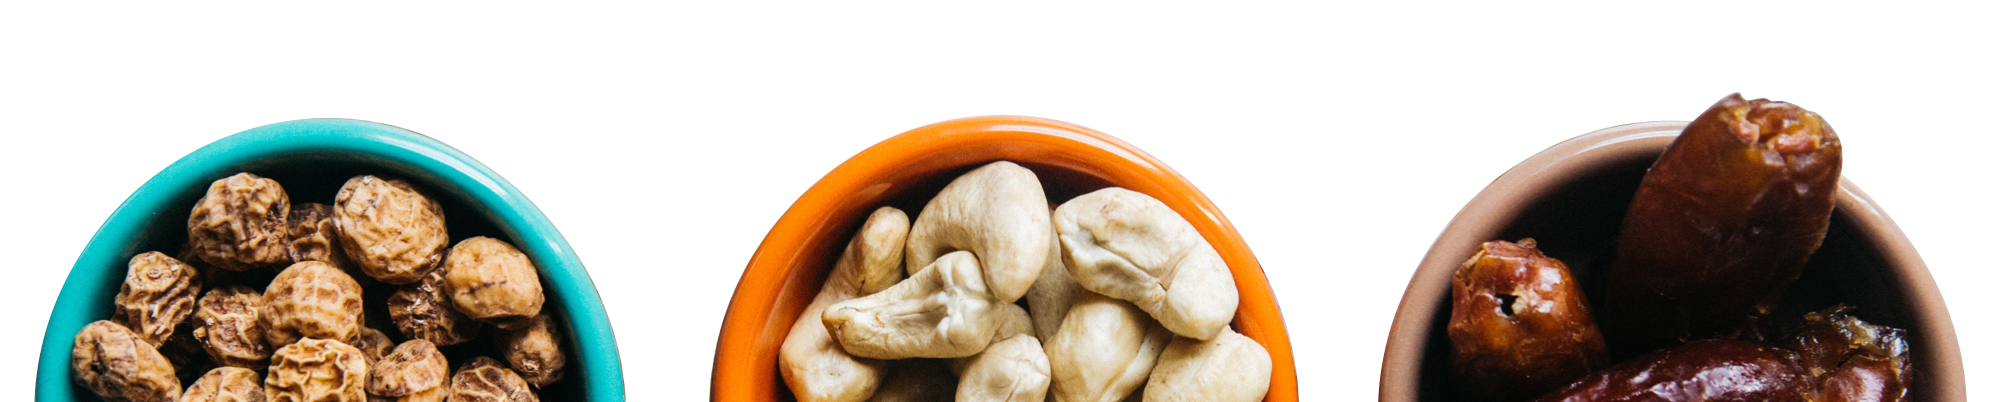
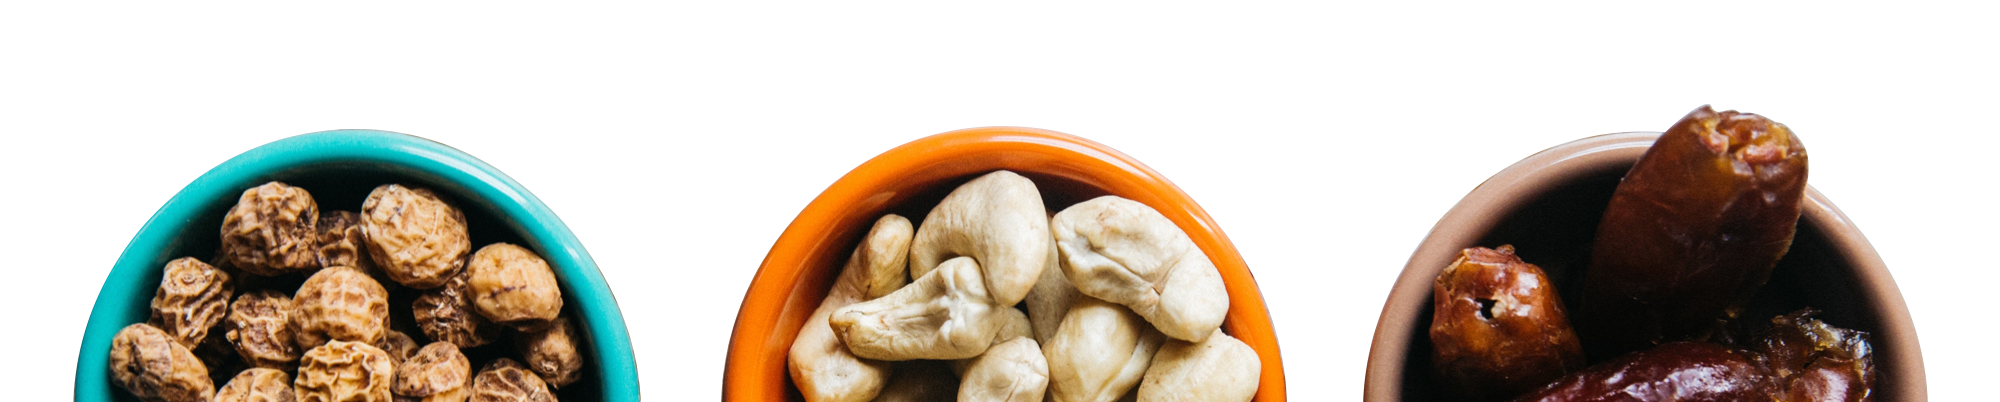
Hero with brands

diff --git a/_layouts/home.html b/_layouts/home.html
@@ -20,13 +20,10 @@ layout: default
                         <!-- Features Item -->
                         <div class="features-item">
                             <div class="features-icon">
-                                <span class=" icon-hotairballoon"></span>
-                            </div>
-                            <div class="features-title font-alt">
-                                We're Creative
+                                <img src="{{ site.baseurl }}images/portfolio/logo_sustainable_indulgence.png" alt="" />
                             </div>
                             <div class="features-descr">
-                                We find the best ideas for you
+                                Peace, Love and Handmade treats
                             </div>
                         </div>
                         <!-- End Features Item -->
@@ -34,13 +31,10 @@ layout: default
                         <!-- Features Item -->
                         <div class="features-item">
                             <div class="features-icon">
-                                <span class="icon-clock"></span>
-                            </div>
-                            <div class="features-title font-alt">
-                                We’re Punctual
+                                <img src="{{ site.baseurl }}images/portfolio/logo_emmys.png" alt="" />
                             </div>
                             <div class="features-descr">
-                                We always do your tasks on time
+                              Clean food for a lively life
                             </div>
                         </div>
                         <!-- End Features Item -->
@@ -48,13 +42,10 @@ layout: default
                         <!-- Features Item -->
                         <div class="features-item">
                             <div class="features-icon">
-                                <span class="icon-lightbulb"></span>
-                            </div>
-                            <div class="features-title font-alt">
-                                We have magic
+                                <img src="{{ site.baseurl }}images/portfolio/logo_explore_cuisine.png" alt="" />
                             </div>
                             <div class="features-descr">
-                                You will be delighted
+                                Pasta re-invented! Simply healthier. Naturally delicious.
                             </div>
                         </div>
                         <!-- End Features Item -->
@@ -62,13 +53,10 @@ layout: default
                         <!-- Features Item -->
                         <div class="features-item">
                             <div class="features-icon">
-                                <span class="icon-wine"></span>
-                            </div>
-                            <div class="features-title font-alt">
-                                We're Creative
+                                <img src="{{ site.baseurl }}images/portfolio/logo_foods_alive.png" alt="" />
                             </div>
                             <div class="features-descr">
-                                We find the best ideas for you
+                                Creators of real health food
                             </div>
                         </div>
                         <!-- End Features Item -->
@@ -76,69 +64,10 @@ layout: default
                         <!-- Features Item -->
                         <div class="features-item">
                             <div class="features-icon">
-                                <span class="icon-tools"></span>
-                            </div>
-                            <div class="features-title font-alt">
-                                We’re Punctual
+                                <img src="{{ site.baseurl }}images/portfolio/logo_vegan_robs.png" alt="Vegan Rob's" />
                             </div>
                             <div class="features-descr">
-                                We always do your tasks on time
-                            </div>
-                        </div>
-                        <!-- End Features Item -->
-
-                        <!-- Features Item -->
-                        <div class="features-item">
-                            <div class="features-icon">
-                                <span class="icon-gears"></span>
-                            </div>
-                            <div class="features-title font-alt">
-                                We have magic
-                            </div>
-                            <div class="features-descr">
-                                You will be delighted
-                            </div>
-                        </div>
-                        <!-- End Features Item -->
-
-                        <!-- Features Item -->
-                        <div class="features-item">
-                            <div class="features-icon">
-                                <span class="icon-browser"></span>
-                            </div>
-                            <div class="features-title font-alt">
-                                We're Creative
-                            </div>
-                            <div class="features-descr">
-                                We find the best ideas for you
-                            </div>
-                        </div>
-                        <!-- End Features Item -->
-
-                        <!-- Features Item -->
-                        <div class="features-item">
-                            <div class="features-icon">
-                                <span class="icon-wallet"></span>
-                            </div>
-                            <div class="features-title font-alt">
-                                We’re Punctual
-                            </div>
-                            <div class="features-descr">
-                                We always do your tasks on time
-                            </div>
-                        </div>
-                        <!-- End Features Item -->
-
-                        <!-- Features Item -->
-                        <div class="features-item">
-                            <div class="features-icon">
-                                <span class="icon-document"></span>
-                            </div>
-                            <div class="features-title font-alt">
-                                We have magic
-                            </div>
-                            <div class="features-descr">
-                                You will be delighted
+                                Go Vegan, even for a momento
                             </div>
                         </div>
                         <!-- End Features Item -->

diff --git a/_layouts/default.html b/_layouts/default.html
@@ -7,32 +7,32 @@
       {{ content }}
 
       <!-- JS -->
-      <script type="text/javascript" src="js/jquery-1.11.2.min.js"></script>
-      <script type="text/javascript" src="js/jquery.easing.1.3.js"></script>
-      <script type="text/javascript" src="js/bootstrap.min.js"></script>
-      <script type="text/javascript" src="js/SmoothScroll.js"></script>
-      <script type="text/javascript" src="js/jquery.scrollTo.min.js"></script>
-      <script type="text/javascript" src="js/jquery.localScroll.min.js"></script>
-      <script type="text/javascript" src="js/jquery.viewport.mini.js"></script>
-      <script type="text/javascript" src="js/jquery.countTo.js"></script>
-      <script type="text/javascript" src="js/jquery.appear.js"></script>
-      <script type="text/javascript" src="js/jquery.sticky.js"></script>
-      <script type="text/javascript" src="js/jquery.parallax-1.1.3.js"></script>
-      <script type="text/javascript" src="js/jquery.fitvids.js"></script>
-      <script type="text/javascript" src="js/owl.carousel.min.js"></script>
-      <script type="text/javascript" src="js/isotope.pkgd.min.js"></script>
-      <script type="text/javascript" src="js/imagesloaded.pkgd.min.js"></script>
-      <script type="text/javascript" src="js/jquery.magnific-popup.min.js"></script>
+      <script type="text/javascript" src="{{ site.baseurl }}js/jquery-1.11.2.min.js"></script>
+      <script type="text/javascript" src="{{ site.baseurl }}js/jquery.easing.1.3.js"></script>
+      <script type="text/javascript" src="{{ site.baseurl }}js/bootstrap.min.js"></script>
+      <script type="text/javascript" src="{{ site.baseurl }}js/SmoothScroll.js"></script>
+      <script type="text/javascript" src="{{ site.baseurl }}js/jquery.scrollTo.min.js"></script>
+      <script type="text/javascript" src="{{ site.baseurl }}js/jquery.localScroll.min.js"></script>
+      <script type="text/javascript" src="{{ site.baseurl }}js/jquery.viewport.mini.js"></script>
+      <script type="text/javascript" src="{{ site.baseurl }}js/jquery.countTo.js"></script>
+      <script type="text/javascript" src="{{ site.baseurl }}js/jquery.appear.js"></script>
+      <script type="text/javascript" src="{{ site.baseurl }}js/jquery.sticky.js"></script>
+      <script type="text/javascript" src="{{ site.baseurl }}js/jquery.parallax-1.1.3.js"></script>
+      <script type="text/javascript" src="{{ site.baseurl }}js/jquery.fitvids.js"></script>
+      <script type="text/javascript" src="{{ site.baseurl }}js/owl.carousel.min.js"></script>
+      <script type="text/javascript" src="{{ site.baseurl }}js/isotope.pkgd.min.js"></script>
+      <script type="text/javascript" src="{{ site.baseurl }}js/imagesloaded.pkgd.min.js"></script>
+      <script type="text/javascript" src="{{ site.baseurl }}js/jquery.magnific-popup.min.js"></script>
       <!-- Replace test API Key "AIzaSyAZsDkJFLS0b59q7cmW0EprwfcfUA8d9dg" with your own one below
       **** You can get API Key here - https://developers.google.com/maps/documentation/javascript/get-api-key -->
       <script type="text/javascript" src="https://maps.googleapis.com/maps/api/js?key=AIzaSyAZsDkJFLS0b59q7cmW0EprwfcfUA8d9dg"></script>
-      <script type="text/javascript" src="js/gmap3.min.js"></script>
-      <script type="text/javascript" src="js/wow.min.js"></script>
-      <script type="text/javascript" src="js/masonry.pkgd.min.js"></script>
-      <script type="text/javascript" src="js/jquery.simple-text-rotator.min.js"></script>
-      <script type="text/javascript" src="js/all.js"></script>
-      <script type="text/javascript" src="js/contact-form.js"></script>
-      <script type="text/javascript" src="js/jquery.ajaxchimp.min.js"></script>
+      <script type="text/javascript" src="{{ site.baseurl }}js/gmap3.min.js"></script>
+      <script type="text/javascript" src="{{ site.baseurl }}js/wow.min.js"></script>
+      <script type="text/javascript" src="{{ site.baseurl }}js/masonry.pkgd.min.js"></script>
+      <script type="text/javascript" src="{{ site.baseurl }}js/jquery.simple-text-rotator.min.js"></script>
+      <script type="text/javascript" src="{{ site.baseurl }}js/all.js"></script>
+      <script type="text/javascript" src="{{ site.baseurl }}js/contact-form.js"></script>
+      <script type="text/javascript" src="{{ site.baseurl }}js/jquery.ajaxchimp.min.js"></script>
       <!--[if lt IE 10]><script type="text/javascript" src="js/placeholder.js"></script><![endif]-->
 
   </body>

diff --git a/css/style.scss b/css/style.scss
@@ -1,13 +1,7 @@
-@charset "utf-8";
-/*------------------------------------------------------------------
-[Master Stylesheet]
+---
+---
 
-Project:    Rhythm
-Version:    2.9.7
-Last change:    22.11.2017
-Primary use:    MultiPurpose Template
--------------------------------------------------------------------*/
-
+@import "variables";
 @import "font-awesome.min.css";
 @import "et-line.css";
 @import url(https://fonts.googleapis.com/css?family=Open+Sans:400italic,700italic,400,300,700);
@@ -360,7 +354,7 @@ img:not([draggable]), embed, object, video{
 body{
     color: #111;
     font-size: 14px;
-    font-family: 'Fira Sans', sans-serif;
+    font-family: $fira;
     line-height: 1.6;
     -webkit-font-smoothing: antialiased;
 }
@@ -2581,7 +2575,7 @@ a.logo:hover{
     position: absolute;
     top: 0;
     left: 0;
-    background: rgba(252,252,252, .7);
+    background: rgba(252,252,252, .1);
 }
 .bg-light-alfa-90:before,
 .bg-light-alfa-90 .YTPOverlay:before{
@@ -3055,9 +3049,9 @@ a.logo:hover{
     background-size: cover;
 }
 .features-icon{
-    font-size: 48px;
-    line-height: 1.3;
-    color: rgba(255,255,255, .9);
+    height: 12rem;
+    max-width: 60%;
+    margin: 0 auto;
 }
 .features-title{
     margin-bottom: 3px;
@@ -6430,4 +6424,12 @@ section:hover .small-item-carousel .owl-next{
 
 .hero {
   background: rgba(252,252,252, .7) url(../images/bg-hero.png) no-repeat center center;
+  background-size: 100%;
+  background-position-y: bottom;
+}
+
+// about
+
+#about {
+  background: $yellow;
 }

diff --git a/_includes/header.html b/_includes/header.html
@@ -4,7 +4,7 @@
         <!-- Logo ( * your text or image into link tag *) -->
         <div class="nav-logo-wrap local-scroll">
             <a href="#top" class="logo">
-                <img src="images/logo-dark.png" alt="" />
+                <img src="{{ site.baseurl }}images/logo-dark.png" alt="" />
             </a>
         </div>
         <div class="mobile-nav">
@@ -14,11 +14,11 @@
         <div class="inner-nav desktop-nav">
             <ul class="clearlist scroll-nav local-scroll">
                 <li class="active"><a href="#home">Home</a></li>
-                <li><a href="#about">About</a></li>
-                <li><a href="#services">Services</a></li>
-                <li><a href="#portfolio">Portfolio</a></li>
-                <li><a href="#news">News</a></li>
-                <li><a href="#contact">Contacts</a></li>
+                <li><a href="{{ site.baseurl }}#about">About</a></li>
+                <li><a href="{{ site.baseurl }}#services">Services</a></li>
+                <li><a href="{{ site.baseurl }}#portfolio">Portfolio</a></li>
+                <li><a href="{{ site.baseurl }}#news">News</a></li>
+                <li><a href="{{ site.baseurl }}#contact">Contacts</a></li>
                 {% assign pages=site.pages | where:"ref", page.ref | sort: 'lang' %}
                 {% for page in pages %}
                 <li>

diff --git a/_includes/head.html b/_includes/head.html
@@ -1,5 +1,5 @@
 <head>
-    <title>Rhythm &mdash; One & Multi Page Creative Theme</title>
+    <title>{{ site.title }}</title>
     <meta name="description" content="">
     <meta name="keywords" content="">
     <meta charset="utf-8">
@@ -9,14 +9,14 @@
     <!-- Favicons -->
     <link rel="shortcut icon" href="images/favicon.png">
 
-    <!-- CSS -->{{ site.baseurl }}
+    <!-- CSS -->
     <link rel="stylesheet" href="{{ site.baseurl }}css/bootstrap.min.css">
     <link rel="stylesheet" href="{{ site.baseurl }}css/style.css">
     <link rel="stylesheet" href="{{ site.baseurl }}css/style-responsive.css">
     <link rel="stylesheet" href="{{ site.baseurl }}css/animate.min.css">
     <link rel="stylesheet" href="{{ site.baseurl }}css/vertical-rhythm.min.css">
     <link rel="stylesheet" href="{{ site.baseurl }}css/owl.carousel.css">
-    <link rel="stylesheet" href="css/magnific-popup.css">
+    <link rel="stylesheet" href="{{ site.baseurl }}css/magnific-popup.css">
 
     <!-- Fonts -->
     <link href="https://fonts.googleapis.com/css?family=Fira+Sans:400,700" rel="stylesheet">

diff --git a/_includes/portfolio.html b/_includes/portfolio.html
@@ -1,16 +1,20 @@
             <!-- Head Section -->
-            <section class="small-section bg-dark-alfa-30 parallax-2" data-background="images/full-width-images/section-bg-18.jpg">
+            <section class="small-section bg-dark-alfa-30 parallax-2" data-background="{{ site.baseurl }}images/full-width-images/section-bg-18.jpg">
                 <div class="relative container align-left">
 
                     <div class="row">
 
                         <div class="col-md-8">
                             <h1 class="hs-line-11 font-alt mb-20 mb-xs-0">Nuestras marcas</h1>
-                            <div class="hs-line-4 font-alt">
-                                An eye for detail makes our works excellent
-                            </div>
                         </div>
+
                     </div>
+link a post
+{% for post in posts %}
+    <li>
+        <a href="{{ post.url }}">{{ post.title }}</a>
+    </li>
+{% endfor %}
 
                 </div>
             </section>

diff --git a/_layouts/post.html b/_layouts/post.html
@@ -1,3 +1,6 @@
+---
+layout: default
+---
             <!-- Head Section -->
             <section class="small-section bg-gray-lighter">
                 <div class="relative container align-left">
@@ -24,6 +27,7 @@
             </section>
             <!-- End Head Section -->
 
+{{ content }}
 
             <!-- Section -->
             <section class="page-section">

diff --git a/_sass/variables.scss b/_sass/variables.scss
@@ -1,0 +1,9 @@
+// Paleta abre
+$green: #00CC84;
+$orange: #FF9700;
+$blue: #00A0DF;
+$purple: #B36CED;
+$yellow: #FFE91C;
+
+// Fonts
+$fira: 'Fira Sans', sans-serif;

diff --git a/index-en.md b/index-en.md
@@ -1,5 +1,5 @@
 ---
 layout: home
-lang: es
+lang: en
 ref: index
 ---

diff --git a/index.md b/index.md
@@ -1,5 +1,5 @@
 ---
 layout: home
-lang: en
+lang: es
 ref: index
 ---
